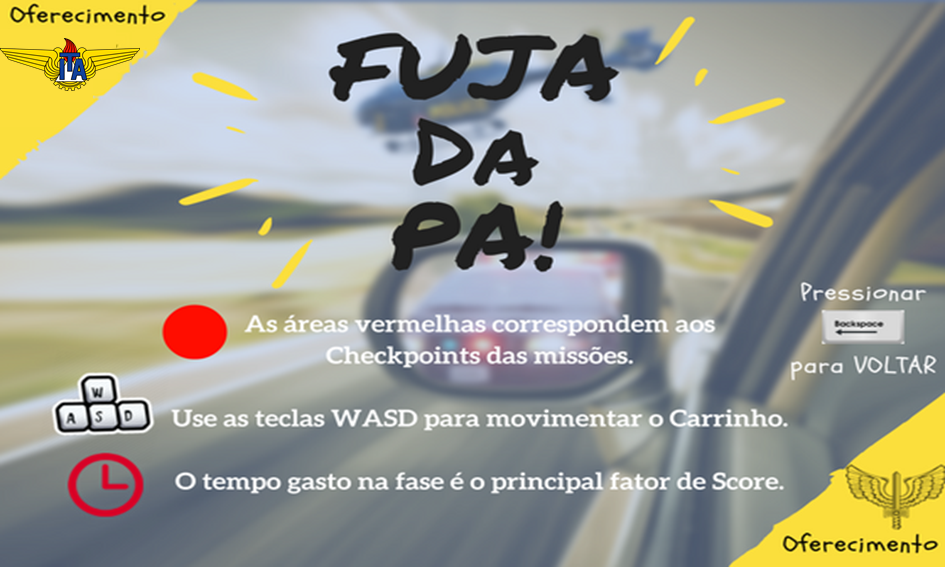
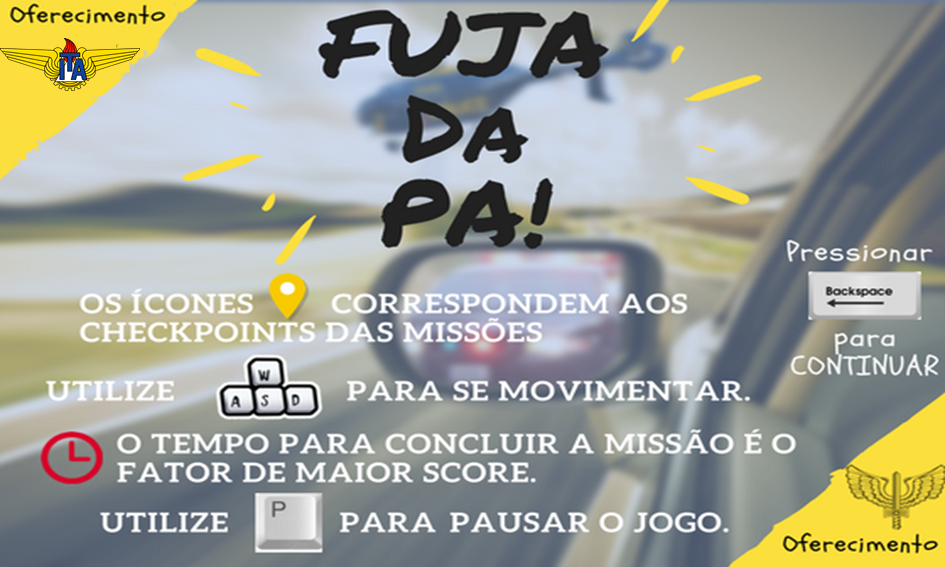
Pause function.

diff --git a/Game.py b/Game.py
@@ -6,10 +6,27 @@ from Heli import *
 from Capivara import *
 from highscore import *
 from Functions import *
+from pygame.locals import *
 
 # Parâmetros da Tela
 SCREENWIDTH = 945 #largura
 SCREENHEIGHT = 565 #altura
+
+# Imagem de Pause
+pausa = Background('./assets/pause.png', [0, 0])
+
+def pause(screen):
+    screen.blit(pausa.image, pausa.rect)
+    pygame.display.update()
+
+    while True:  # wait for user to acknowledge and return
+        for event in pygame.event.get():
+            if event.type == pygame.QUIT:
+                pygame.quit()
+                sys.exit()
+            if event.type == pygame.KEYDOWN and event.key in [pygame.K_RETURN, pygame.K_KP_ENTER, pygame.K_BACKSPACE]:
+                return
+        pygame.time.wait(20)
 
 def measure_terrain(player, level, screen):
     aux_terrain = 1
@@ -68,6 +85,8 @@ def game(level, screen):
             if event.type == pygame.QUIT:
                 pygame.quit()
                 sys.exit()
+            elif event.type == KEYDOWN and event.key == K_p:
+                pause(screen)
             player.handle_event(event)
         #Handle terrain
         screen.blit(image.image, image.rect)

diff --git a/ObstaclesFase1.py b/ObstaclesFase1.py
@@ -1,0 +1,19 @@
+class moradia():
+    def __init__(self, x0, y0, angle0):
+        pygame.sprite.Sprite.__init__(self)
+
+class rancho():
+    def __init__(self, x0, y0, angle0):
+        pygame.sprite.Sprite.__init__(self)
+
+class fund():
+    def __init__(self, x0, y0, angle0):
+        pygame.sprite.Sprite.__init__(self)
+
+class elecomp():
+    def __init__(self, x0, y0, angle0):
+        pygame.sprite.Sprite.__init__(self)
+
+class trees():
+    def __init__(self, x0, y0, angle0):
+        pygame.sprite.Sprite.__init__(self)
